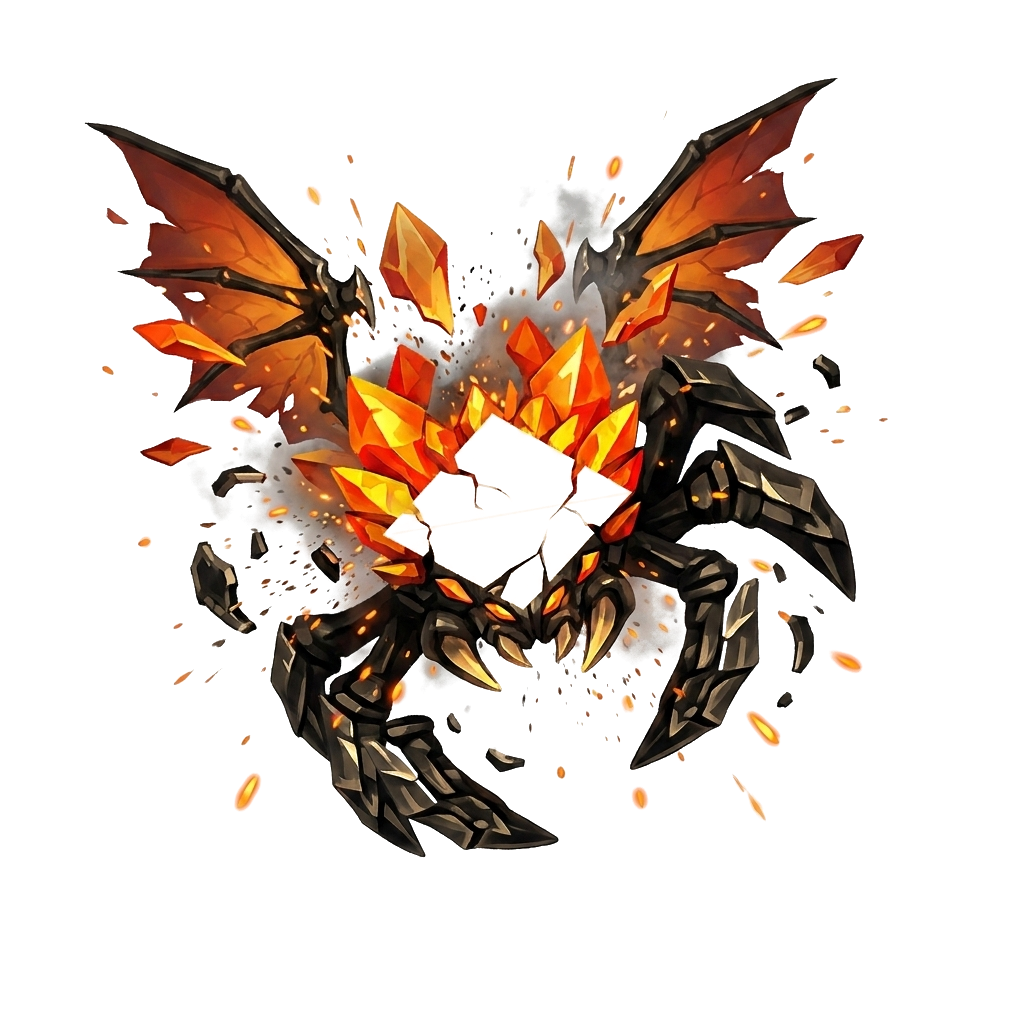
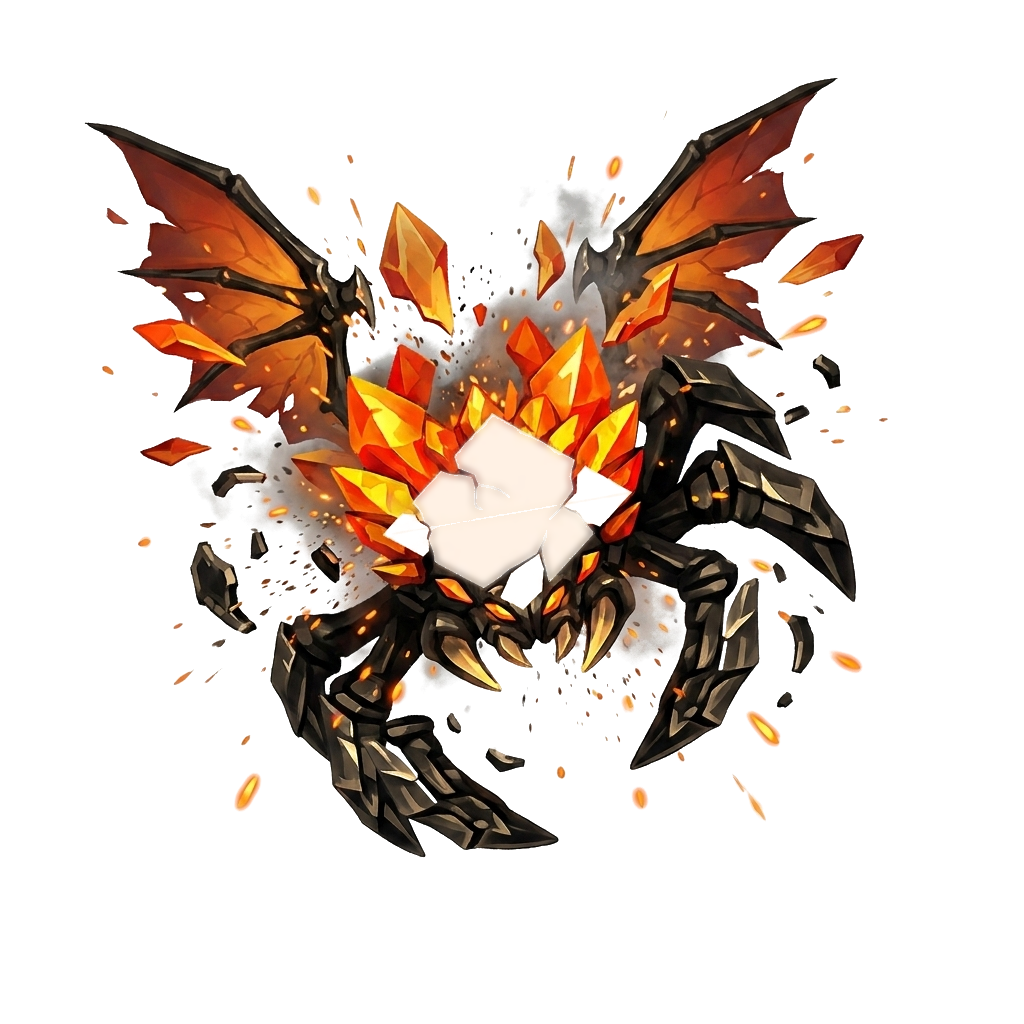
Fix diamond-shaped voids in 25 unit sprites (user-reported)
- User saw towers/enemies with a missing diamond mid-body in-game;
  repo scan found generation-artifact rhombus holes (enclosed interior
  voids with diamond fill signature in central position)
- Fixed 25 frames across the confirmed defect set: grav_snare_t2_02
  (188k px hole - a third of the body), furnace_matriarch idle 00-05
  (125k px each), salvage_derrick_00 (64k), slag_burner_t3_01/02,
  cinder_husk idle 00-05/07, cannon 05/t2_05, salvage t3 frames,
  cinder_glider/spore_carrier death frames
- tools/fill_diamond_holes.py: sibling-transplant first (body-centroid
  aligned copy from a clean reel-mate, feathered - keeps hand-painted
  texture; matriarch 01-05 transplanted from the repaired 00 so the
  reel stays internally consistent), median-grow inpaint fallback
- Excluded by design (vision-verified): spore carrier round windows,
  arc welder arm gaps, grav snare ring gaps - lattice/structure holes
- Post-fix: 0 holes remain; matriarch reel continuity improved to
  1.8-5.6% per pair; visual check PASS on all six samples

Changed region(s): [[0.4062, 0.4062, 0.5938, 0.5938]]

diff --git a/tools/fill_diamond_holes.py b/tools/fill_diamond_holes.py
@@ -1,0 +1,156 @@
+"""Fill generation-artifact diamond voids inside unit sprites.
+
+Some AI generations left rhombus-shaped transparent holes in the middle
+of bodies (user-visible as 'missing diamond' in-game). Fix strategy:
+
+  1. detect enclosed interior holes with diamond signature
+     (central location, bbox fill 0.35-0.65, size > 2500px)
+  2. sibling transplant: if another frame of the same reel has body
+     pixels covering the hole region (aligned by body-centroid offset),
+     copy RGB+alpha from there with a 3px feather - keeps the
+     hand-painted look and reel-consistent texture
+  3. otherwise iterative boundary-fill inpaint (no cv2 dependency):
+     grow content inward from the hole edge by repeated masked median
+     filtering until the hole closes
+
+Usage: python tools/fill_diamond_holes.py <frame> [frame ...]
+       python tools/fill_diamond_holes.py --scan     (report only)
+"""
+import glob
+import os
+import re
+import sys
+import numpy as np
+from PIL import Image, ImageFilter
+from scipy import ndimage
+
+ANIM = "Assets/Resources/Art/anim"
+MIN_SIZE = 2500
+FILL_LO, FILL_HI = 0.35, 0.65
+
+
+def find_holes(al):
+    body = al > 60
+    if body.sum() < 5000:
+        return []
+    filled = ndimage.binary_fill_holes(body)
+    holes = filled & ~body
+    lab, n = ndimage.label(holes)
+    out = []
+    H, W = al.shape
+    for i in range(1, n + 1):
+        comp = lab == i
+        size = int(comp.sum())
+        if size < MIN_SIZE:
+            continue
+        ys, xs = np.where(comp)
+        h, w = ys.max() - ys.min() + 1, xs.max() - xs.min() + 1
+        fill = size / (h * w)
+        cy, cx = ys.mean() / H, xs.mean() / W
+        if 0.25 < cx < 0.75 and 0.25 < cy < 0.75 and FILL_LO <= fill <= FILL_HI:
+            out.append(dict(mask=comp, size=size, fill=round(fill, 2)))
+    return out
+
+
+def reel_siblings(name):
+    base = re.sub(r"_\d+$", "", name)
+    return [os.path.basename(p)[:-4] for p in glob.glob(os.path.join(ANIM, base + "_*.png"))
+            if "death" not in p and "fire" not in p and os.path.basename(p)[:-4] != name]
+
+
+def body_centroid(al):
+    ys, xs = np.where(al > 100)
+    return (int(xs.mean()), int(ys.mean())) if len(xs) else (512, 512)
+
+
+def transplant(frame, hole):
+    """Try copying the hole region from a sibling frame; returns True on success."""
+    al = np.array(Image.open(os.path.join(ANIM, frame + ".png")).convert("RGBA"))[:, :, 3]
+    cx0, cy0 = body_centroid(al)
+    for sib in reel_siblings(frame):
+        sp = os.path.join(ANIM, sib + ".png")
+        if not os.path.exists(sp):
+            continue
+        sim = np.array(Image.open(sp).convert("RGBA"))
+        sal = sim[:, :, 3]
+        cx1, cy1 = body_centroid(sal)
+        dx, dy = cx0 - cx1, cy0 - cy1
+        ys, xs = np.where(hole["mask"])
+        sx, sy = xs + dx, ys + dy
+        if sx.min() < 0 or sy.min() < 0 or sx.max() >= 1024 or sy.max() >= 1024:
+            continue
+        if (sal[sy, sx] > 100).mean() < 0.92:      # sibling must be solid there
+            continue
+        im = np.array(Image.open(os.path.join(ANIM, frame + ".png")).convert("RGBA"))
+        # feathered paste
+        feather = ndimage.binary_dilation(hole["mask"], iterations=3)
+        soft = ndimage.gaussian_filter(feather.astype(float), 2.0) > 0.35
+        src = np.roll(np.roll(sim, dy, axis=0), dx, axis=1)
+        m = soft[..., None]
+        im = (im * (1 - m) + src * m).astype(np.uint8)
+        Image.fromarray(im, "RGBA").save(os.path.join(ANIM, frame + ".png"))
+        return sib
+    return None
+
+
+def inpaint_hole(frame, hole):
+    p = os.path.join(ANIM, frame + ".png")
+    im = np.array(Image.open(p).convert("RGBA")).astype(np.float64)
+    m = hole["mask"]
+    # grow inward from boundary with median filtering until closed
+    region = ndimage.binary_dilation(m, iterations=6)
+    work = im.copy()
+    todo = m.copy()
+    guard = 0
+    while todo.any() and guard < 400:
+        edge = todo & ndimage.binary_erosion(~todo, iterations=1) == False
+        edge = todo & ~ndimage.binary_erosion(todo)
+        work_img = Image.fromarray(np.clip(work, 0, 255).astype(np.uint8), "RGBA")
+        med = np.array(work_img.filter(ImageFilter.MedianFilter(5))).astype(np.float64)
+        work[edge] = med[edge]
+        todo[edge] = False
+        guard += 1
+    # smooth the filled zone
+    zone = ndimage.binary_dilation(m, iterations=2)
+    wimg = Image.fromarray(np.clip(work, 0, 255).astype(np.uint8), "RGBA")
+    blur = np.array(wimg.filter(ImageFilter.GaussianBlur(4))).astype(np.float64)
+    blend = ndimage.gaussian_filter(m.astype(float), 3.0)[..., None]
+    work = work * (1 - blend) + blur * blend
+    out = np.clip(work, 0, 255).astype(np.uint8)
+    out[:, :, 3] = np.maximum(out[:, :, 3], np.where(m, 255, 0).astype(np.uint8))
+    Image.fromarray(out, "RGBA").save(p)
+
+
+def process(frame):
+    p = os.path.join(ANIM, frame + ".png")
+    al = np.array(Image.open(p).convert("RGBA"))[:, :, 3]
+    holes = find_holes(al)
+    if not holes:
+        return None
+    results = []
+    for h in holes:
+        sib = transplant(frame, h)
+        if sib:
+            results.append(f"transplant<-{sib}({h['size']}px)")
+        else:
+            inpaint_hole(frame, h)
+            results.append(f"inpaint({h['size']}px)")
+    # verify
+    al2 = np.array(Image.open(p).convert("RGBA"))[:, :, 3]
+    left = find_holes(al2)
+    return results, len(left)
+
+
+if __name__ == "__main__":
+    if sys.argv[1] == "--scan":
+        for p in sorted(glob.glob(ANIM + "/tower_*.png") + glob.glob(ANIM + "/enemy_*.png")):
+            n = os.path.basename(p)[:-4]
+            if "fire" in n:
+                continue
+            hs = find_holes(np.array(Image.open(p).convert("RGBA"))[:, :, 3])
+            if hs:
+                print(f"{n:44s} {[h['size'] for h in hs]}")
+        sys.exit(0)
+    for frame in sys.argv[1:]:
+        r = process(frame)
+        print(frame, r if r else "no diamond holes")
